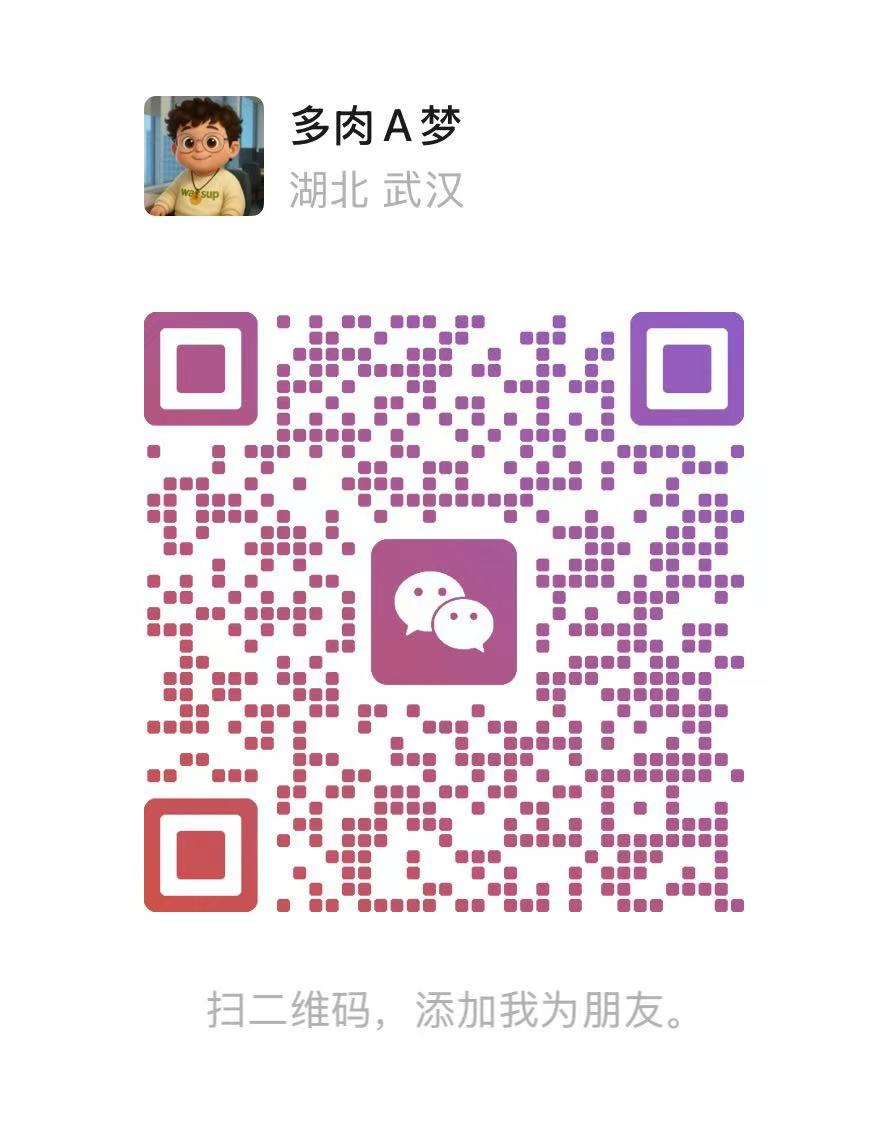
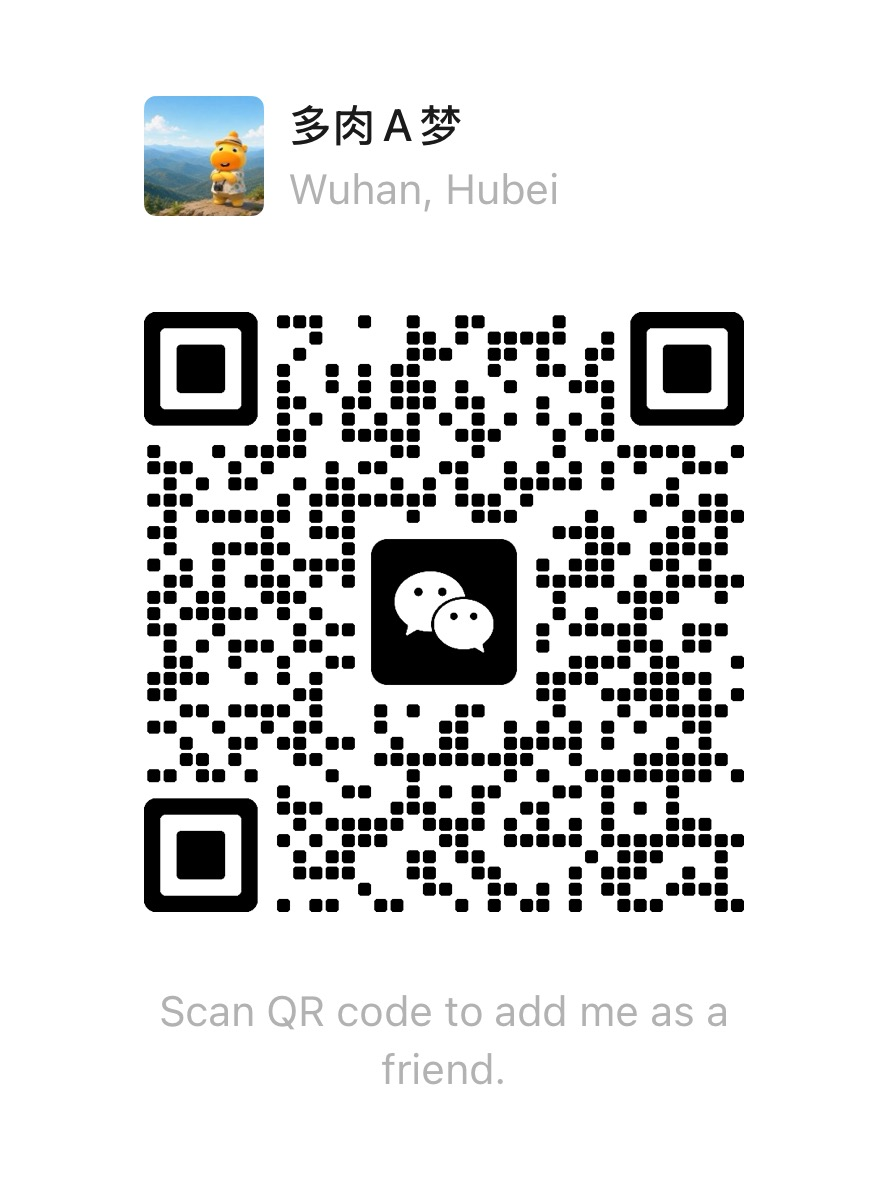
Add WeChat contact modal

Changed region(s): [[0.152, 0.2476, 0.8514, 0.8046], [0.1824, 0.8355, 0.8209, 0.9284], [0.152, 0.0619, 0.6385, 0.2166]]

diff --git a/src/components/home/WeChatModal.tsx b/src/components/home/WeChatModal.tsx
@@ -1,0 +1,122 @@
+'use client';
+
+import { useEffect, useRef } from 'react';
+import { createPortal } from 'react-dom';
+import Image from 'next/image';
+import { AnimatePresence, motion } from 'framer-motion';
+import { ScanLine, X } from 'lucide-react';
+import { useMessages } from '@/lib/i18n/useMessages';
+import { WeChatIcon } from '@/components/ui/Icons';
+
+interface WeChatModalProps {
+    open: boolean;
+    qrSrc: string;
+    onClose: () => void;
+}
+
+export default function WeChatModal({ open, qrSrc, onClose }: WeChatModalProps) {
+    const messages = useMessages();
+    const closeButtonRef = useRef<HTMLButtonElement>(null);
+
+    useEffect(() => {
+        if (!open) return;
+
+        const previousOverflow = document.body.style.overflow;
+        const previousFocus = document.activeElement instanceof HTMLElement
+            ? document.activeElement
+            : null;
+        document.body.style.overflow = 'hidden';
+        closeButtonRef.current?.focus();
+
+        const handleKeyDown = (event: KeyboardEvent) => {
+            if (event.key === 'Escape') onClose();
+        };
+        window.addEventListener('keydown', handleKeyDown);
+
+        return () => {
+            document.body.style.overflow = previousOverflow;
+            window.removeEventListener('keydown', handleKeyDown);
+            previousFocus?.focus();
+        };
+    }, [onClose, open]);
+
+    if (typeof document === 'undefined') return null;
+
+    return createPortal(
+        <AnimatePresence>
+            {open && (
+                <motion.div
+                    className="fixed inset-0 z-[1100] flex items-center justify-center overflow-y-auto bg-slate-950/65 px-4 py-6 backdrop-blur-md"
+                    initial={{ opacity: 0 }}
+                    animate={{ opacity: 1 }}
+                    exit={{ opacity: 0 }}
+                    transition={{ duration: 0.2 }}
+                    onMouseDown={(event) => {
+                        if (event.target === event.currentTarget) onClose();
+                    }}
+                >
+                    <motion.section
+                        role="dialog"
+                        aria-modal="true"
+                        aria-labelledby="wechat-dialog-title"
+                        aria-describedby="wechat-dialog-description"
+                        initial={{ opacity: 0, y: 18, scale: 0.96 }}
+                        animate={{ opacity: 1, y: 0, scale: 1 }}
+                        exit={{ opacity: 0, y: 12, scale: 0.97 }}
+                        transition={{ type: 'spring', stiffness: 340, damping: 28 }}
+                        onMouseDown={(event) => event.stopPropagation()}
+                        className="relative w-full max-w-[23rem] overflow-hidden rounded-[1.75rem] border border-white/80 bg-white/95 p-4 shadow-[0_35px_100px_-28px_rgba(0,0,0,0.75)] ring-1 ring-black/5 dark:border-white/10 dark:bg-neutral-900/95"
+                    >
+                        <div className="pointer-events-none absolute -right-16 -top-20 h-44 w-44 rounded-full bg-accent/20 blur-3xl" />
+                        <div className="pointer-events-none absolute -bottom-20 -left-16 h-44 w-44 rounded-full bg-emerald-400/10 blur-3xl" />
+
+                        <header className="relative flex items-start justify-between gap-4 px-1 pb-3 pt-1">
+                            <div className="flex min-w-0 items-center gap-3">
+                                <span className="flex h-10 w-10 flex-none items-center justify-center rounded-2xl bg-emerald-500/[0.12] text-emerald-600 ring-1 ring-inset ring-emerald-500/15 dark:text-emerald-400">
+                                    <WeChatIcon className="h-5 w-5" />
+                                </span>
+                                <div className="min-w-0">
+                                    <p className="text-[9px] font-bold uppercase tracking-[0.2em] text-accent-dark dark:text-accent">
+                                        Let&apos;s connect
+                                    </p>
+                                    <h2 id="wechat-dialog-title" className="mt-0.5 truncate font-serif text-xl font-bold text-primary">
+                                        {messages.profile.wechatTitle}
+                                    </h2>
+                                </div>
+                            </div>
+                            <button
+                                ref={closeButtonRef}
+                                type="button"
+                                onClick={onClose}
+                                aria-label={messages.profile.closeWechat}
+                                className="flex h-9 w-9 flex-none items-center justify-center rounded-full border border-neutral-200/80 text-neutral-500 transition-colors hover:border-accent/35 hover:bg-accent/[0.07] hover:text-accent dark:border-white/10 dark:text-neutral-400"
+                            >
+                                <X className="h-4 w-4" />
+                            </button>
+                        </header>
+
+                        <div className="relative overflow-hidden rounded-2xl bg-white p-1.5 shadow-[0_14px_36px_-18px_rgba(15,23,42,0.42)] ring-1 ring-black/[0.06]">
+                            <Image
+                                src={qrSrc}
+                                alt={messages.profile.wechatQrAlt}
+                                width={888}
+                                height={1191}
+                                priority
+                                className="block h-auto w-full rounded-xl"
+                            />
+                        </div>
+
+                        <p
+                            id="wechat-dialog-description"
+                            className="relative mt-3 flex items-center justify-center gap-2 px-2 pb-1 text-center text-[11px] leading-relaxed text-neutral-500 dark:text-neutral-400"
+                        >
+                            <ScanLine className="h-3.5 w-3.5 flex-none text-accent" />
+                            <span className="min-w-0">{messages.profile.wechatHint}</span>
+                        </p>
+                    </motion.section>
+                </motion.div>
+            )}
+        </AnimatePresence>,
+        document.body
+    );
+}

diff --git a/src/components/home/Profile.tsx b/src/components/home/Profile.tsx
@@ -1,6 +1,6 @@
 'use client';
 
-import { useEffect, useState } from 'react';
+import { useEffect, useState, type ComponentType } from 'react';
 import { motion, AnimatePresence } from 'framer-motion';
 import Image from 'next/image';
 import {
@@ -13,7 +13,7 @@ import { ChevronRight, Github, Linkedin, Pin } from 'lucide-react';
 import type { SiteConfig } from '@/lib/config';
 import type { CardItem, PageSectionLink } from '@/types/page';
 import { useMessages } from '@/lib/i18n/useMessages';
-import { XIcon } from '@/components/ui/Icons';
+import { WeChatIcon, XIcon } from '@/components/ui/Icons';
 
 // Custom ORCID icon component
 const OrcidIcon = ({ className }: { className?: string }) => (
@@ -34,6 +34,16 @@ interface ProfileProps {
     researchInterests?: string[];
     currentRoles?: CardItem[];
     sectionLinks?: PageSectionLink[];
+    onOpenWeChat?: () => void;
+}
+
+interface SocialLink {
+    name: string;
+    href: string;
+    icon: ComponentType<{ className?: string }>;
+    isEmail?: boolean;
+    isLocation?: boolean;
+    isWechat?: boolean;
 }
 
 export default function Profile({
@@ -42,6 +52,7 @@ export default function Profile({
     researchInterests = [],
     currentRoles = [],
     sectionLinks = [],
+    onOpenWeChat,
 }: ProfileProps) {
     const messages = useMessages();
 
@@ -90,12 +101,18 @@ export default function Profile({
         };
     }, [sectionLinks]);
 
-    const socialLinks = [
+    const socialLinks: SocialLink[] = [
         ...(social.email ? [{
             name: messages.profile.email,
             href: `mailto:${social.email}`,
             icon: EnvelopeIcon,
             isEmail: true,
+        }] : []),
+        ...(social.wechat && onOpenWeChat ? [{
+            name: messages.profile.wechat,
+            href: '#wechat',
+            icon: WeChatIcon,
+            isWechat: true,
         }] : []),
         ...(social.location || social.location_details ? [{
             name: messages.profile.location,
@@ -189,6 +206,20 @@ export default function Profile({
             <div className="flex flex-wrap justify-center gap-3 sm:gap-4 mb-5 relative px-2">
                 {socialLinks.map((link) => {
                     const IconComponent = link.icon;
+                    if (link.isWechat) {
+                        return (
+                            <button
+                                key={link.name}
+                                type="button"
+                                onClick={onOpenWeChat}
+                                className="p-2 text-neutral-600 transition-colors duration-200 hover:text-emerald-500 dark:text-neutral-400 dark:hover:text-emerald-400 sm:p-2"
+                                aria-label={link.name}
+                                aria-haspopup="dialog"
+                            >
+                                <IconComponent className="h-5 w-5" />
+                            </button>
+                        );
+                    }
                     if (link.isLocation) {
                         return (
                             <div key={link.name} className="relative">

diff --git a/src/components/home/HomePageClient.tsx b/src/components/home/HomePageClient.tsx
@@ -1,6 +1,6 @@
 'use client';
 
-import { useEffect, useState } from 'react';
+import { useCallback, useEffect, useState } from 'react';
 import { AnimatePresence, motion } from 'framer-motion';
 import { ArrowUp } from 'lucide-react';
 import Profile from '@/components/home/Profile';
@@ -8,6 +8,7 @@ import About from '@/components/home/About';
 import SelectedPublications from '@/components/home/SelectedPublications';
 import News, { NewsItem } from '@/components/home/News';
 import ProjectShowcase from '@/components/home/ProjectShowcase';
+import WeChatModal from '@/components/home/WeChatModal';
 import PublicationsList from '@/components/publications/PublicationsList';
 import TextPage from '@/components/pages/TextPage';
 import CardPage from '@/components/pages/CardPage';
@@ -56,8 +57,11 @@ interface HomePageClientProps {
 export default function HomePageClient({ dataByLocale, defaultLocale }: HomePageClientProps) {
   const locale = useLocaleStore((state) => state.locale);
   const [showBackToTop, setShowBackToTop] = useState(false);
+  const [wechatOpen, setWechatOpen] = useState(false);
   const fallback = dataByLocale[defaultLocale] || Object.values(dataByLocale)[0];
   const data = dataByLocale[locale] || fallback;
+  const openWeChat = useCallback(() => setWechatOpen(true), []);
+  const closeWeChat = useCallback(() => setWechatOpen(false), []);
 
   useEffect(() => {
     const updateVisibility = () => setShowBackToTop(window.scrollY > 700);
@@ -71,6 +75,7 @@ export default function HomePageClient({ dataByLocale, defaultLocale }: HomePage
   }
 
   return (
+    <>
     <div className="max-w-7xl mx-auto px-4 sm:px-6 lg:px-8 py-8 bg-background min-h-screen">
       <div className="grid grid-cols-1 lg:grid-cols-3 gap-12">
         <div className="lg:col-span-1">
@@ -81,6 +86,7 @@ export default function HomePageClient({ dataByLocale, defaultLocale }: HomePage
             researchInterests={data.researchInterests}
             currentRoles={data.currentRoles}
             sectionLinks={data.sectionLinks}
+            onOpenWeChat={openWeChat}
           />
         </div>
 
@@ -101,6 +107,7 @@ export default function HomePageClient({ dataByLocale, defaultLocale }: HomePage
                           content={section.content || ''}
                           title={section.title}
                           delay={delay}
+                          onOpenWeChat={openWeChat}
                         />
                       </div>
                     );
@@ -187,5 +194,13 @@ export default function HomePageClient({ dataByLocale, defaultLocale }: HomePage
         )}
       </AnimatePresence>
     </div>
+    {typeof data.social.wechat === 'string' && (
+      <WeChatModal
+        open={wechatOpen}
+        qrSrc={data.social.wechat}
+        onClose={closeWeChat}
+      />
+    )}
+    </>
   );
 }

diff --git a/src/components/home/About.tsx b/src/components/home/About.tsx
@@ -31,9 +31,10 @@ interface AboutProps {
     content: string;
     title?: string;
     delay?: number;
+    onOpenWeChat?: () => void;
 }
 
-export default function About({ content, title, delay = 0.2 }: AboutProps) {
+export default function About({ content, title, delay = 0.2, onOpenWeChat }: AboutProps) {
     const messages = useMessages();
     const resolvedTitle = title || messages.home.about;
 
@@ -59,6 +60,7 @@ export default function About({ content, title, delay = 0.2 }: AboutProps) {
                             const astNode = node as HastNode | undefined;
                             const onlyChild = (astNode?.children || []).find((c) => !(c.type === 'text' && (c.value || '').trim() === ''));
                             const wrapsImage = onlyChild?.type === 'element' && onlyChild.tagName === 'img';
+                            const opensWeChat = props.href === '#wechat' && onOpenWeChat;
                             if (wrapsImage) {
                                 return (
                                     <a
@@ -69,6 +71,22 @@ export default function About({ content, title, delay = 0.2 }: AboutProps) {
                                     >
                                         {children}
                                         <span aria-hidden className="pointer-events-none absolute inset-0 rounded-xl bg-gradient-to-t from-black/5 to-transparent opacity-0 group-hover:opacity-100 transition-opacity duration-300" />
+                                    </a>
+                                );
+                            }
+                            if (opensWeChat) {
+                                return (
+                                    <a
+                                        {...props}
+                                        href="#wechat"
+                                        aria-haspopup="dialog"
+                                        onClick={(event) => {
+                                            event.preventDefault();
+                                            onOpenWeChat();
+                                        }}
+                                        className="rounded font-medium text-accent transition-all duration-200 hover:bg-accent/10 hover:shadow-sm"
+                                    >
+                                        {children}
                                     </a>
                                 );
                             }

diff --git a/src/components/ui/Icons.tsx b/src/components/ui/Icons.tsx
@@ -15,6 +15,30 @@ export function XIcon(props: SVGProps<SVGSVGElement>) {
     );
 }
 
+export function WeChatIcon(props: SVGProps<SVGSVGElement>) {
+    return (
+        <svg
+            role="img"
+            viewBox="0 0 24 24"
+            xmlns="http://www.w3.org/2000/svg"
+            fill="none"
+            stroke="currentColor"
+            strokeWidth="1.7"
+            strokeLinecap="round"
+            strokeLinejoin="round"
+            aria-label="WeChat"
+            {...props}
+        >
+            <path d="M14.2 10.2c0 3.25-2.82 5.88-6.3 5.88-.72 0-1.42-.12-2.06-.32L3 17.15l.82-2.47A5.65 5.65 0 0 1 1.6 10.2c0-3.25 2.82-5.88 6.3-5.88s6.3 2.63 6.3 5.88Z" />
+            <path d="M10.1 15.77c.94 2.28 3.3 3.91 6.08 3.91.75 0 1.47-.12 2.14-.34L21 20.66l-.76-2.3a5.5 5.5 0 0 0 2.16-4.35c0-3.14-2.78-5.69-6.22-5.69-.75 0-1.46.12-2.12.34" />
+            <circle cx="5.7" cy="9.3" r=".55" fill="currentColor" stroke="none" />
+            <circle cx="10.1" cy="9.3" r=".55" fill="currentColor" stroke="none" />
+            <circle cx="14.15" cy="13.18" r=".55" fill="currentColor" stroke="none" />
+            <circle cx="18.35" cy="13.18" r=".55" fill="currentColor" stroke="none" />
+        </svg>
+    );
+}
+
 export function ArxivIcon(props: SVGProps<SVGSVGElement>) {
     return (
         <svg

diff --git a/src/lib/i18n/messages.ts b/src/lib/i18n/messages.ts
@@ -21,6 +21,11 @@ export interface LocaleMessages {
     googleMap: string;
     send: string;
     sendEmail: string;
+    wechat: string;
+    wechatTitle: string;
+    wechatHint: string;
+    wechatQrAlt: string;
+    closeWechat: string;
     researchInterests: string;
     currently: string;
     active: string;
@@ -74,6 +79,11 @@ const en: LocaleMessages = {
     googleMap: 'Google Map',
     send: 'Send',
     sendEmail: 'Send Email',
+    wechat: 'WeChat',
+    wechatTitle: 'Connect on WeChat',
+    wechatHint: 'Open WeChat and scan this code.',
+    wechatQrAlt: 'WeChat QR code for Boxuan Zhang',
+    closeWechat: 'Close WeChat QR code',
     researchInterests: 'Research Focus',
     currently: 'Currently',
     active: 'Active',
@@ -127,6 +137,11 @@ const zh: LocaleMessages = {
     googleMap: '谷歌地图',
     send: '发送',
     sendEmail: '发送邮件',
+    wechat: '微信',
+    wechatTitle: '添加我的微信',
+    wechatHint: '打开微信，扫描二维码添加好友。',
+    wechatQrAlt: '张博轩的微信二维码',
+    closeWechat: '关闭微信二维码',
     researchInterests: '研究方向',
     currently: '当前身份',
     active: '进行中',

diff --git a/content/bio.md b/content/bio.md
@@ -2,4 +2,4 @@ I am a CS Ph.D. student at [Rutgers University](https://www.rutgers.edu/), advis
 
 My research focuses on building **trustworthy agentic AI** systems, with particular interests in **LLM post-training**, **safety**, **reliability**, and **robustness**. I also work on reliable detection of AI-generated visual content and interdisciplinary applications of ML in healthcare, including immunology and cell morphology.
 
-🔥 **If you share these research interests or have feedback on my previous work, feel free to drop me an [email](mailto:bz362@scarletmail.rutgers.edu) — I am always delighted to discuss potential collaborations!**
+🔥 **If you share these research interests or have feedback on my previous work, feel free to drop me an [email](mailto:bz362@scarletmail.rutgers.edu) or [add me on WeChat](#wechat) — I am always delighted to discuss potential collaborations!**
